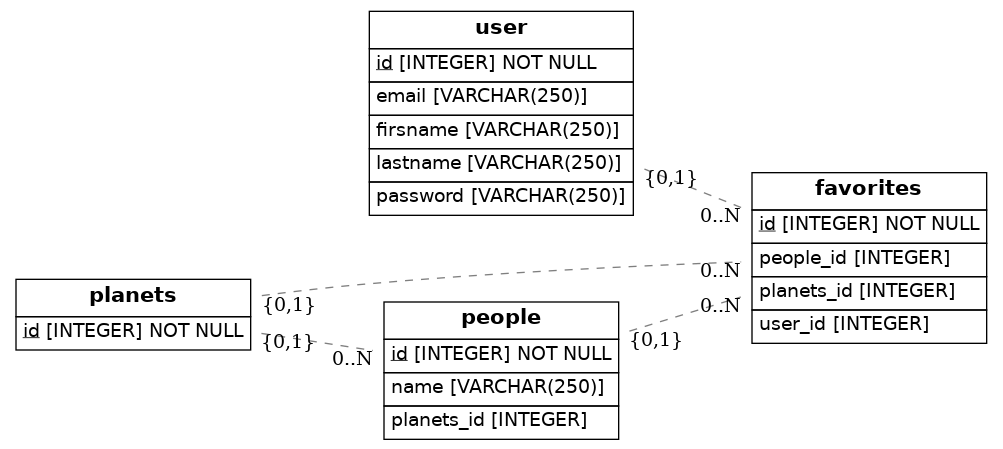
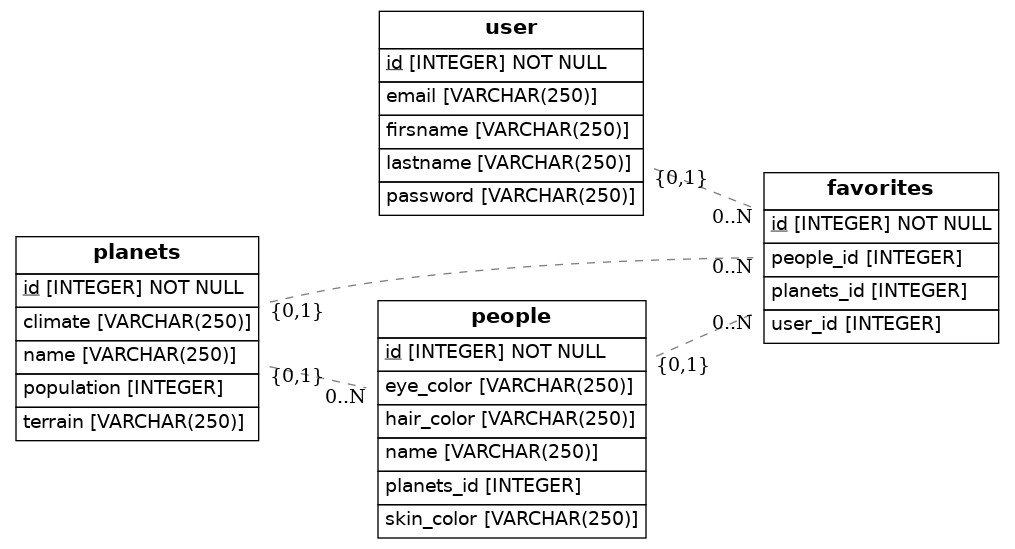
adding properties

Changed region(s): [[0.0, 0.0, 0.989, 0.9978]]

diff --git a/src/models.py b/src/models.py
@@ -36,12 +36,20 @@ class User(Base):
 class Planets(Base):
     __tablename__ = 'planets'
     id = Column(Integer, primary_key=True)
-    name = String(250)
+    name = Column(String(250))
+    climate = Column(String(250))
+    terrain = Column(String(250))
+    population = Column(Integer)
 
 class People(Base):
     __tablename__ = 'people'
     id = Column(Integer, primary_key=True)
     name = Column(String(250))
+    hair_color = Column(String(250))
+    eye_color = Column(String(250))
+    skin_color = Column(String(250))
+
+
     planets_id = Column(Integer, ForeignKey('planets.id'))
     planets = relationship(Planets)
 
